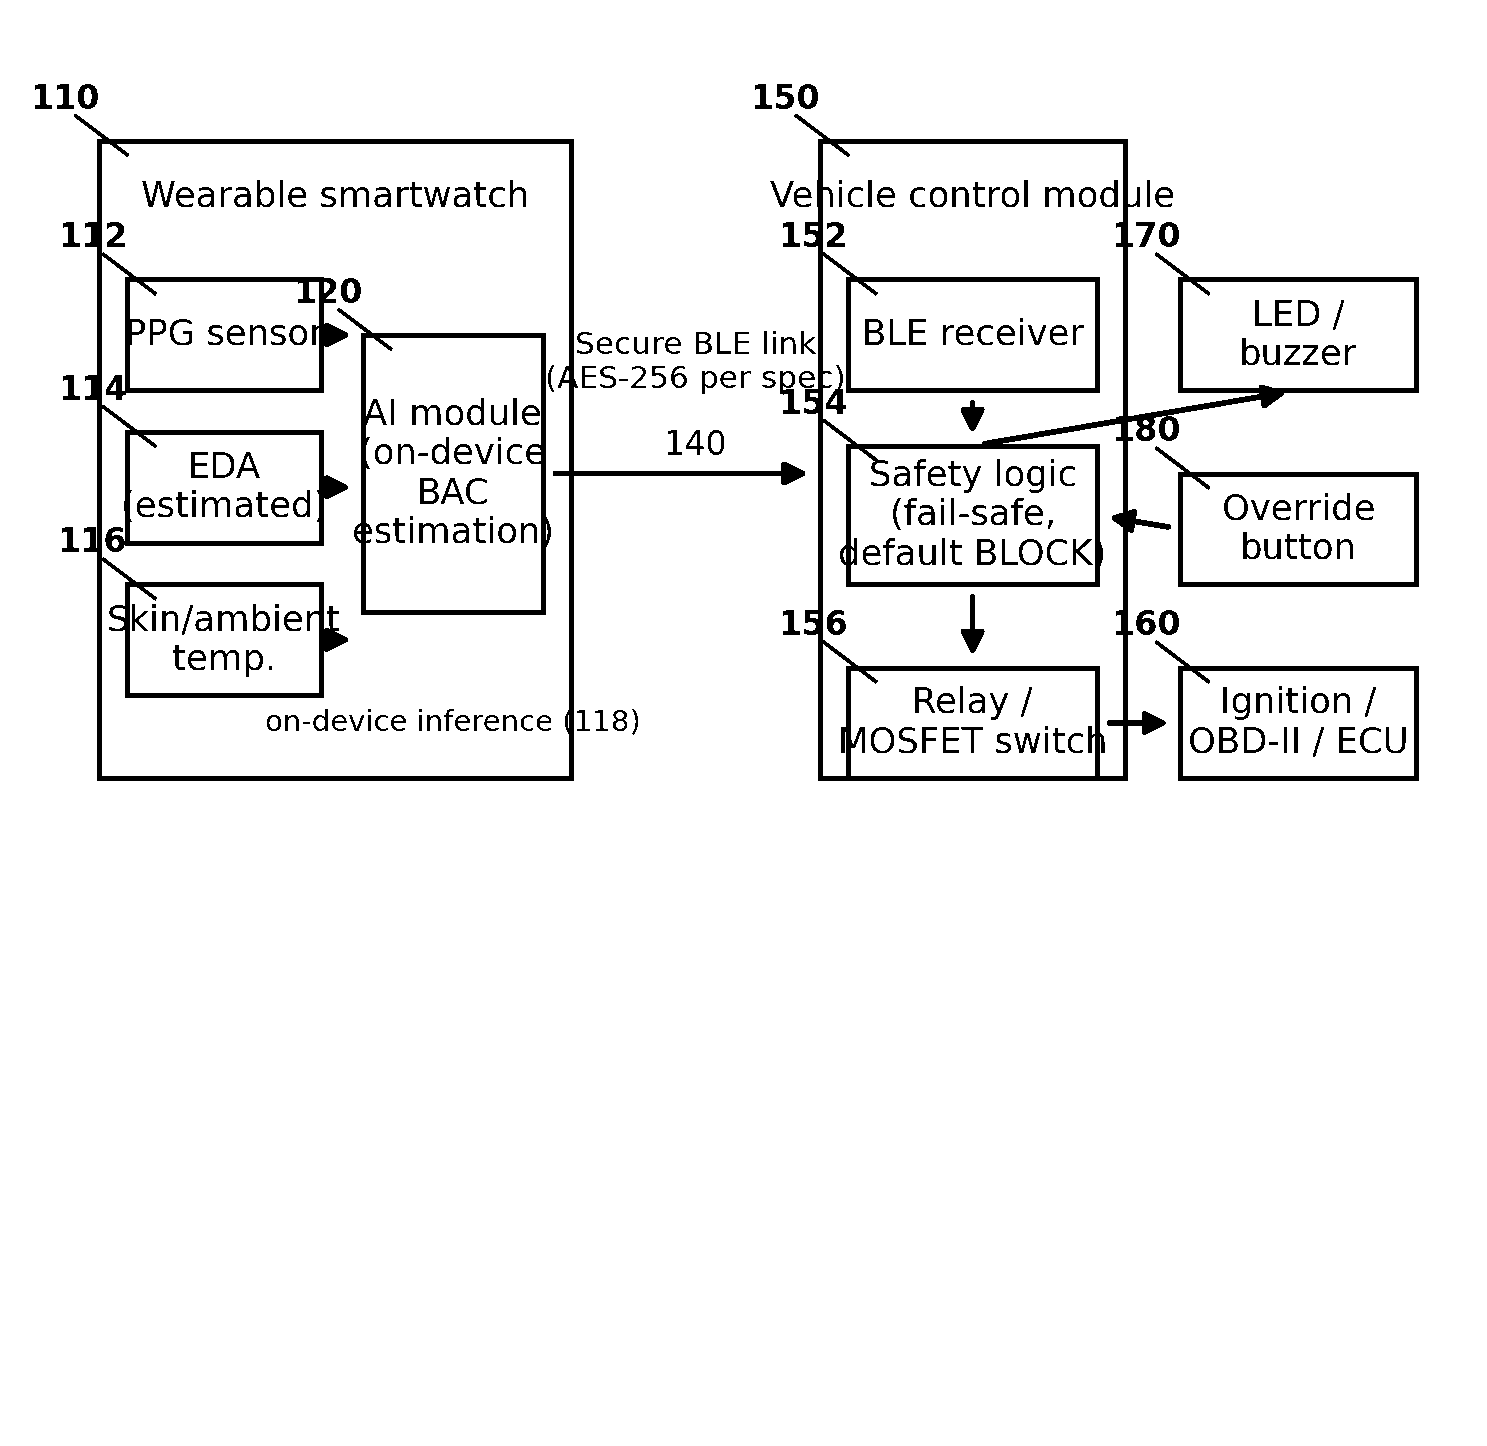
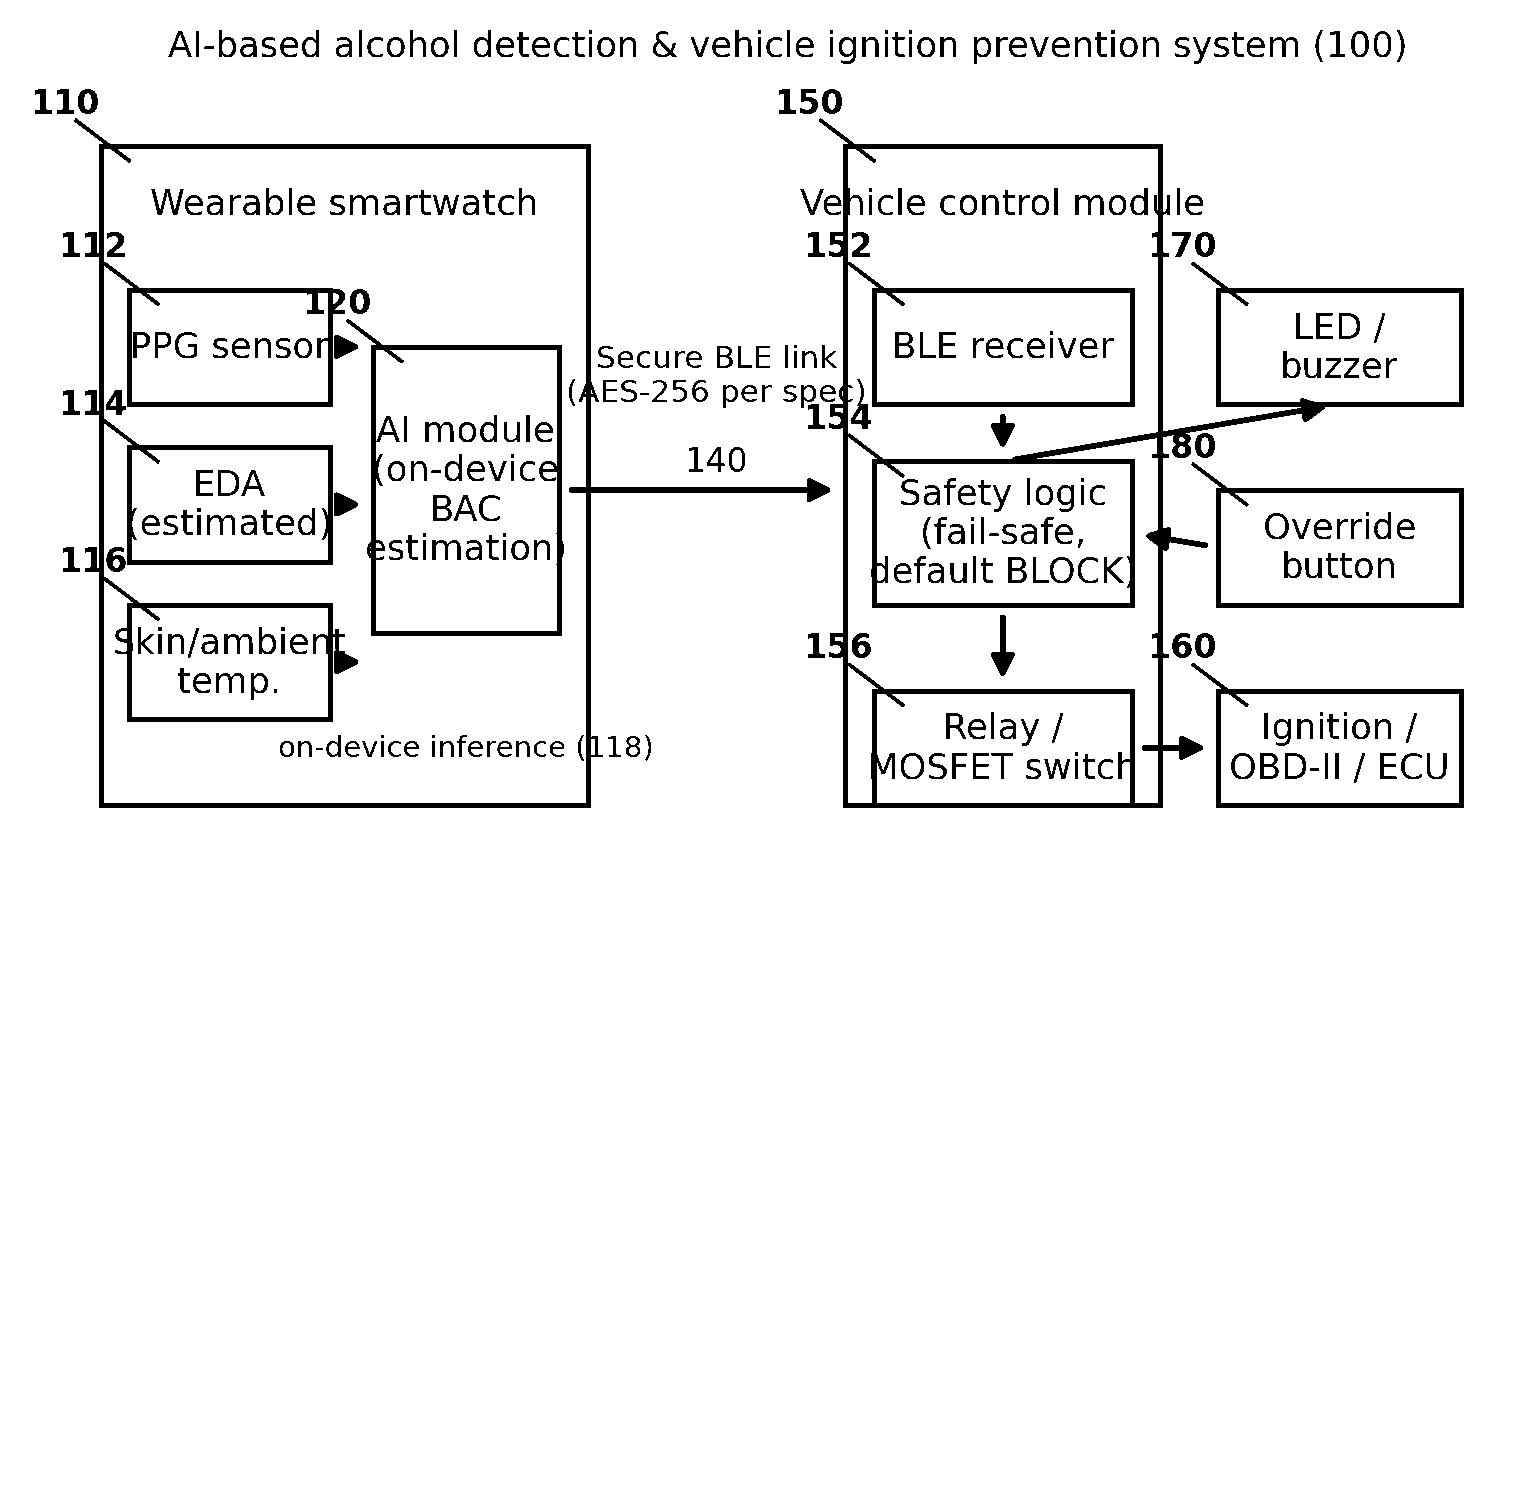
feat(patent): Figure 2 — sequence diagram (full 2D-line redraw)
Full redraw of the provisional's colour-raster Figure 2 as 1-bit line art: lifelines
110/120/140/150, 10 numbered messages, dashed override attempt. Also adds the overall
system reference numeral (100) to Figure 1. Part of U3.

diff --git a/patent_cap/gen/fig2_sequence.py b/patent_cap/gen/fig2_sequence.py
@@ -1,0 +1,73 @@
+"""Figure 2 — Sequence diagram of system operation (2D line, ACN1408 CAP).
+
+Full redraw (the provisional Figure 2 is a colour raster). Pure 1-bit line art.
+Lifelines: smartwatch sensors (110), AI/BAC module (120), secure BLE link (140),
+vehicle module (150).
+"""
+import sys
+import pathlib
+
+HERE = pathlib.Path(__file__).resolve().parent
+sys.path.insert(0, str(HERE.parent))
+import patent_style as ps  # noqa: E402
+
+OUT = HERE.parent / "figures"
+
+ACTORS = [
+    (13, "Smartwatch\nsensors", "smartwatch"),
+    (38, "AI / BAC\nmodule", "ai_module"),
+    (62, "Secure BLE\nlink", "ble"),
+    (87, "Vehicle\nmodule", "vehicle_ctrl"),
+]
+
+
+def lifeline(ax, x, y_top, y_bot):
+    ax.plot([x, x], [y_bot, y_top], color="black", linewidth=0.7,
+            antialiased=False, linestyle=(0, (4, 3)))
+
+
+def msg(ax, x0, x1, y, text, dashed=False):
+    style = "-|>" if not dashed else "-|>"
+    from matplotlib.patches import FancyArrowPatch
+    ax.add_patch(FancyArrowPatch((x0, y), (x1, y), arrowstyle=style,
+                 mutation_scale=10, linewidth=1.0, color="black",
+                 antialiased=False,
+                 linestyle="--" if dashed else "-", shrinkA=0, shrinkB=0))
+    ax.text((x0 + x1) / 2, y + 1.4, text, ha="center", va="bottom", fontsize=7.5,
+            color="black")
+
+
+def selfmsg(ax, x, y, text):
+    ax.text(x + 2, y, text, ha="left", va="center", fontsize=7.5, color="black")
+    ax.plot([x, x + 1.2], [y, y], color="black", linewidth=1.0, antialiased=False)
+
+
+def build():
+    fig, ax = ps.new_sheet(9.5, 6.4)
+    xs = {}
+    for x, lbl, key in ACTORS:
+        ps.box(ax, x - 9, 90, 18, 8, lbl, ps.n(key), fontsize=8)
+        xs[key] = x
+        lifeline(ax, x, 90, 6)
+
+    s, a, b, v = xs["smartwatch"], xs["ai_module"], xs["ble"], xs["vehicle_ctrl"]
+    msg(ax, s, a, 82, "1. Continuous sensor data")
+    selfmsg(ax, a, 75, "2. Estimate BAC; compare to 0.08 g/dL")
+    msg(ax, a, b, 68, "3. BAC status packet (30 s)")
+    msg(ax, b, v, 61, "4. Deliver status")
+    selfmsg(ax, v, 54, "5. Block ignition (default fail-safe)")
+    msg(ax, v, b, 47, "6. Override attempt", dashed=True)
+    msg(ax, b, a, 40, "7. Request verification")
+    msg(ax, a, s, 33, "8. Request BAC recheck")
+    msg(ax, s, a, 26, "9. Fresh sensor data")
+    msg(ax, a, v, 17, "10. Maintain ignition block")
+
+    ps.label(ax, 50, 8,
+             "Key: real-time monitoring | threshold-based block | verification | "
+             "override protection", fontsize=7)
+    ps.save(fig, "fig2_sequence", outdir=OUT)
+
+
+if __name__ == "__main__":
+    build()
+    print("wrote fig2_sequence")

diff --git a/patent_cap/gen/fig1_system_architecture.py b/patent_cap/gen/fig1_system_architecture.py
@@ -16,7 +16,11 @@ OUT = HERE.parent / "figures"
 
 
 def build():
-    fig, ax = ps.new_sheet(9.5, 6.0)
+    fig, ax = ps.new_sheet(9.5, 6.2)
+
+    ps.label(ax, 50, 99,
+             "AI-based alcohol detection & vehicle ignition prevention system (%d)"
+             % ps.n("system"), fontsize=8.5)
 
     # --- Wearable smartwatch (110) ---
     ps.box(ax, 2, 46, 34, 46, "", ps.n("smartwatch"))